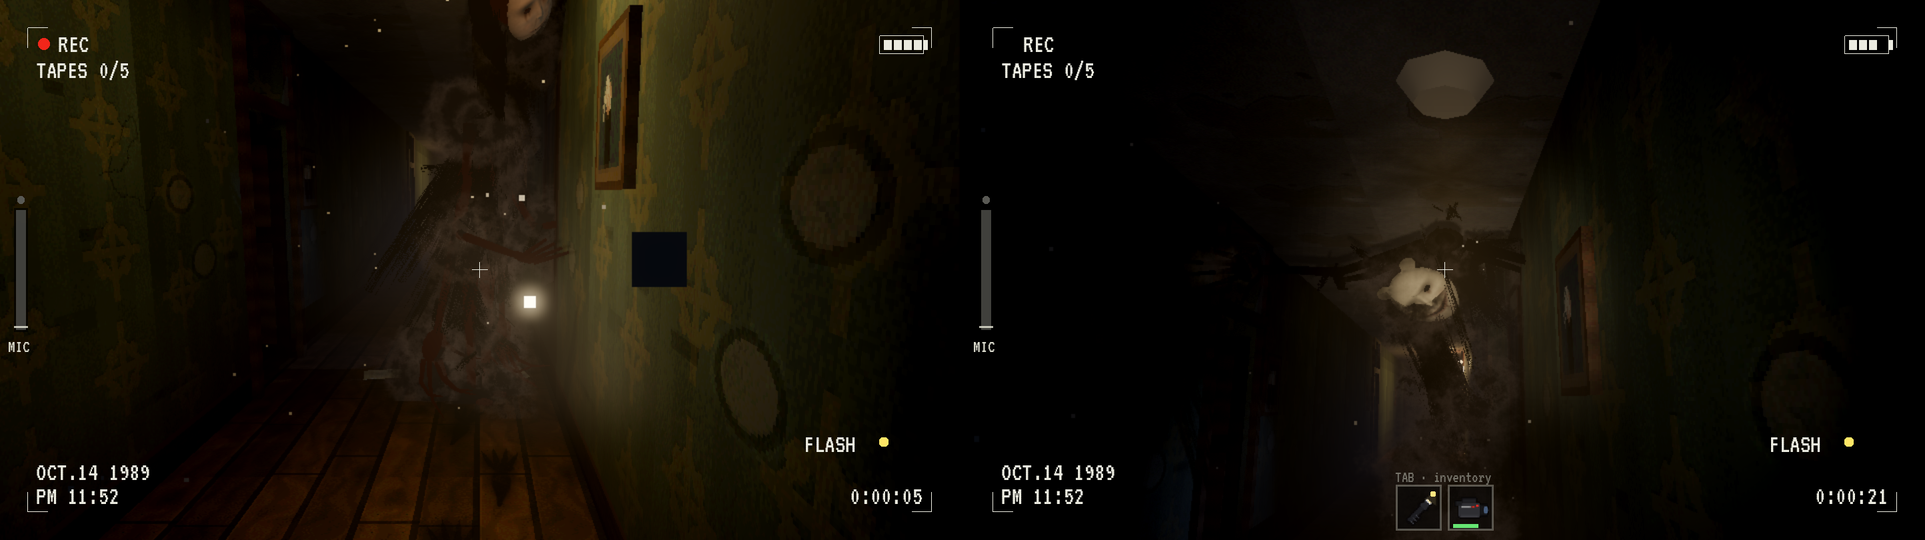
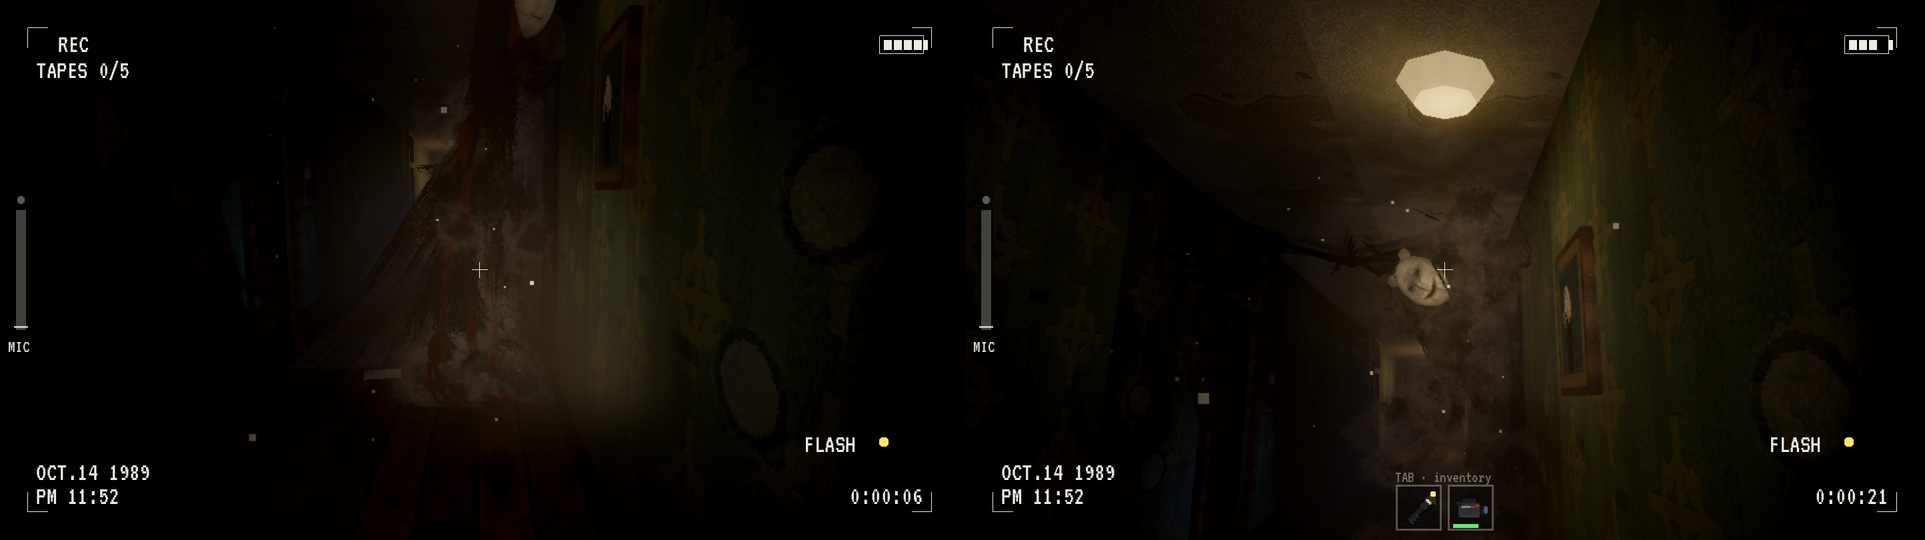
Hollín: los copos se desvanecen cerca de la cámara y capturas nuevas
Claude-Session: https://claude.ai/code/session_01AyW4JmSuFYqDJf614TAJzJ

diff --git a/.agents/project_context.md b/.agents/project_context.md
@@ -106,7 +106,7 @@ Fusión de las tres direcciones propuestas: **«Solo la cámara la ve»** + **la
   - **Aura (solo por la cámara, capa visual 2):** humo de hollín que sale de la cabeza, la espalda y cada articulación de los brazos y piernas del muñeco 3D (`EntityModel.soot_points`), copos negros que caen y una mancha de sombra en el suelo bajo ella (en el techo si está colgada). Mientras la graban, el humo se queda casi quieto. Furiosa, echa más. `GPUParticles3D` + `shaders/entity_soot.gdshader` (ruido que se deshace en jirones, suave contra paredes y suelo).
   - **Huellas (también a simple vista, propuesta, `Tuning.SOOT_NAKED_EYE`):** pies largos de dedos con garra; a gatas, manos enormes; y una salpicadura quemada donde el flash la deshace. Aparecen `SOOT_SETTLE` (1,4 s) después de pasar, nunca donde está ahora, y se borran en `SOOT_LIFE` (50 s). Un fondo de decals reutilizados (`SOOT_MARKS`).
   - **Red:** solo presentación, cada máquina la deriva de lo que ya se replica (posición, estado, pose, modo); nada nuevo por la red.
-  - **Coste:** los decals no son llamadas de dibujo; el aura son ~7 llamadas solo con la cámara levantada. El filtro de decals se pone en código (`RenderingServer.decals_set_filter`, nearest) y no en `project.godot`, para poder publicarlo como parche.
+  - **Coste:** los decals no son llamadas de dibujo; el aura son ~7-12 llamadas solo con la cámara levantada. El filtro de decals se pone en código (`RenderingServer.decals_set_filter`, nearest) y no en `project.godot`, para poder publicarlo como parche.
   - Texturas: `python tools/gen_soot.py` (requiere scipy). Capturas: `--shots <dir> --soot-only`.
 
 ## Sonido y música
